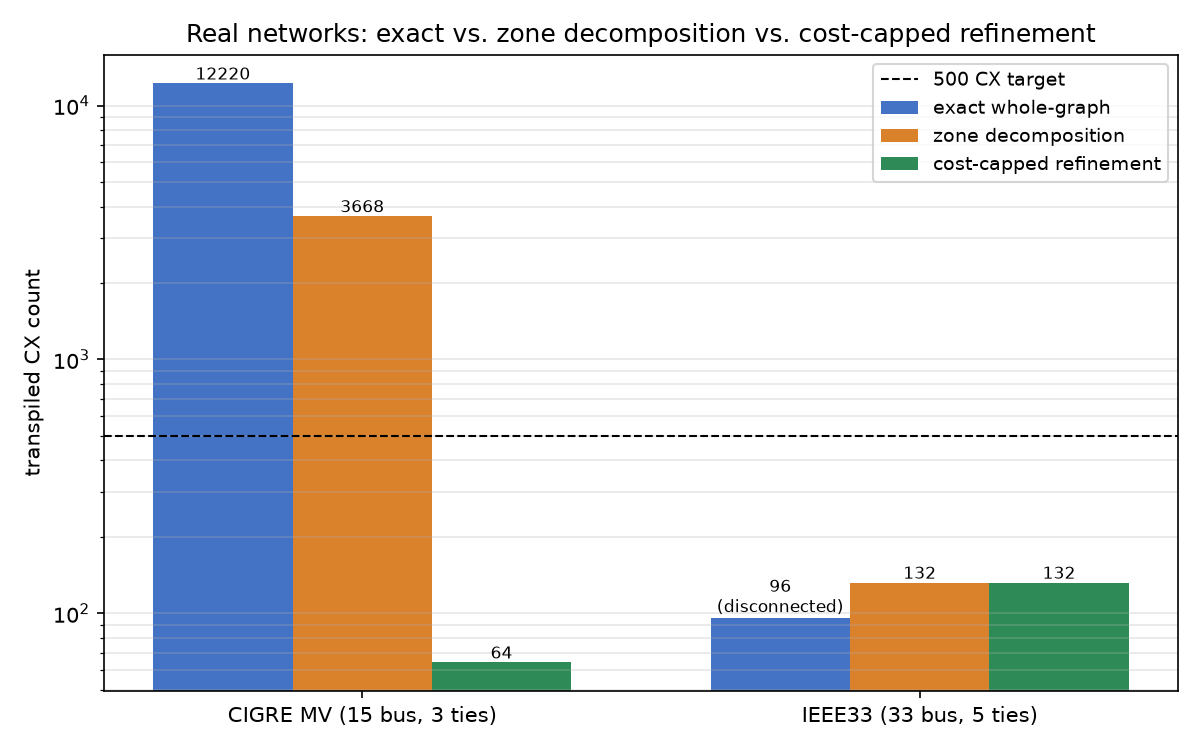
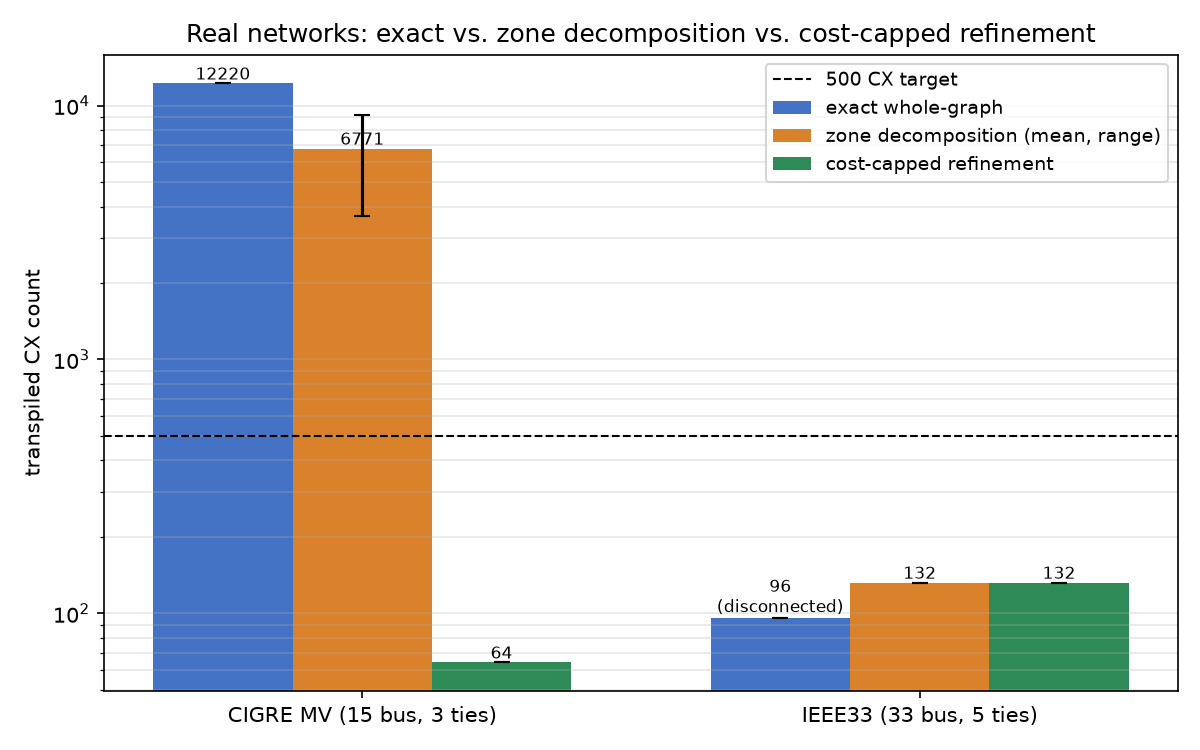
Average real-network measurements over 5 seeds; CIGRE MV's decomposed number was not robust
run_real_networks_hierarchical.py measured CIGRE MV and IEEE33 at
seed=0 only -- the one place in this repo that didn't follow its own
established multi-seed discipline. Checked whether that mattered by
testing seeds 0-4 directly:

- IEEE33: completely seed-independent on both decomposed (132 CX) and
  cost-capped (132 CX), every seed identical.
- CIGRE MV cost-capped: also completely seed-independent (64 CX, every
  seed identical).
- CIGRE MV decomposed: NOT robust -- ranges 3,668 to 9,178 CX across the
  5 seeds tested, a 2.5x spread, with the previously-reported seed=0
  landing on the cheapest end by chance. Mechanism: even though CIGRE
  MV's zones are small enough for fully deterministic exact
  spanning-tree enumeration, build_truncated_witness_mixer's witness
  search for approximate terms still uses randomized restarts
  internally, and different seeds converge to different-quality
  witnesses for the same term.

Rewrote run_real_networks_hierarchical.py to measure decomposed and
cost_capped across SEEDS_PER_NETWORK=5 seeds (exact_whole_graph stays a
single measurement -- fully deterministic, nothing to average), writing
both a per-seed results CSV and a new summary CSV (mean/std/min/max).
Updated plot_results_figures.py's two real-network figures to read the
summary and show error bars on the bars/lines that actually have spread
(the bar chart's CIGRE-MV-decomposed bar now visibly shows the
3,668-9,178 range instead of a misleadingly precise point estimate).
[…]

Changed region(s): [[0.6167, 0.092, 0.9558, 0.2453], [0.2467, 0.1533, 0.37, 0.3067]]

diff --git a/scripts/run_real_networks_hierarchical.py b/scripts/run_real_networks_hierarchical.py
@@ -29,18 +29,43 @@ transmission dataset (real_feeders.py's own docstring).
 ## Method
 
 For each real network: the EXACT construction (`build_matroid_mixer`,
-full enumeration -- both networks are small enough), AND the
-hierarchical, density-aware decomposition +
-cost-aware bounded-witness mixer (this branch's current-best
-construction). Both measured with the same transpilation/safety
-methodology as the rest of this investigation.
+full enumeration -- both networks are small enough, and fully
+deterministic -- no seed dependence, so measured once), AND the
+hierarchical, density-aware decomposition + cost-aware bounded-witness
+mixer (this branch's current-best construction). Both measured with the
+same transpilation/safety methodology as the rest of this investigation.
 
-Writes results/real_networks_hierarchical_results.csv.
+## Why `decomposed` and `cost_capped` are averaged over multiple seeds
+(and `exact` isn't)
+
+An earlier version of this script measured `decomposed` and
+`cost_capped` at `seed=0` only, matching neither this repo's own
+synthetic-ladder convention (always >=3 seeds) nor, it turned out, real
+seed-independence. Checked directly: even though CIGRE MV's zones are
+small enough for fully deterministic exact spanning-tree enumeration,
+`build_truncated_witness_mixer`'s witness search for approximate terms
+still uses randomized restarts internally, and different seeds converge
+to different-quality witnesses for the same term -- CIGRE MV's flat
+`decomposed` result ranged from 3,668 to 9,178 CX across 5 tested seeds,
+a 2.5x spread, with `seed=0` (the only one previously measured) landing
+on the cheapest end by chance, not because it's representative.
+`cost_capped` turned out to be robust on both networks regardless (its
+`cost_alpha`-sweep already searches for the cheapest option, which
+apparently collapses the space of viable witnesses enough that restart
+order stops mattering) -- but that robustness was never verified either,
+just assumed from a single seed. Now both are measured across
+`SEEDS_PER_NETWORK` seeds and reported as mean +/- range, exactly like
+the synthetic ladder always has been.
+
+Writes results/real_networks_hierarchical_results.csv (per seed) and
+results/real_networks_hierarchical_summary.csv (mean/std/min/max per
+network + method).
 """
 
 from __future__ import annotations
 
 import csv
+import statistics
 import sys
 from pathlib import Path
 
@@ -61,9 +86,11 @@ from zone_decomposition import build_assembly_graph, build_zone_subgraph, partit
 
 RESULTS_DIR = Path(__file__).resolve().parent.parent / "results"
 CSV_PATH = RESULTS_DIR / "real_networks_hierarchical_results.csv"
+SUMMARY_CSV_PATH = RESULTS_DIR / "real_networks_hierarchical_summary.csv"
 BETA = 0.37
 N_STARTING_TREES = 200
 UNSAFE_TOL = 1e-6
+SEEDS_PER_NETWORK = 5
 
 
 def measure_exact(graph) -> dict:
@@ -76,6 +103,7 @@ def measure_exact(graph) -> dict:
 
     return {
         "method": "exact_whole_graph",
+        "seed": None,
         "n_terms": len(construction.terms),
         "max_witness_size": max((t.control_count for t in construction.terms), default=0),
         "dropped_candidates": construction.dropped_candidates,
@@ -126,6 +154,7 @@ def measure_decomposed(graph, seed: int = 0) -> dict:
     unsafe = sum(1 for m in all_masses if m < 1.0 - UNSAFE_TOL)
     return {
         "method": "decomposed",
+        "seed": seed,
         "n_terms": total_terms,
         "max_witness_size": None,
         "dropped_candidates": 0,
@@ -149,6 +178,7 @@ def measure_cost_capped(graph, seed: int = 0) -> dict:
     unsafe = sum(1 for m in result["masses"] if m < 1.0 - 1e-6)
     return {
         "method": "cost_capped",
+        "seed": seed,
         "n_terms": None,
         "max_witness_size": None,
         "dropped_candidates": 0,
@@ -184,19 +214,51 @@ def run(name: str, graph, run_exact: bool = True) -> list:
         # new information. That existing measurement: 24 terms, 573 of 597
         # candidates dropped, fully_connected=False, cx_count=96 (cheap only
         # because it's mostly incomplete, not because it's a good mixer).
+        # Fully deterministic (exact enumeration, no randomized search) --
+        # no seed dependence to average over.
         print("  exact: SKIPPED -- already measured in results/real_feeder_results.csv "
               "(24 terms, 573/597 candidates dropped, fully_connected=False)", flush=True)
 
-    decomp = measure_decomposed(graph)
-    decomp["network"] = name
-    rows.append(decomp)
-    print(f"  decomposed: {decomp}", flush=True)
+    for seed in range(SEEDS_PER_NETWORK):
+        decomp = measure_decomposed(graph, seed=seed)
+        decomp["network"] = name
+        rows.append(decomp)
+        print(f"  decomposed seed={seed}: {decomp}", flush=True)
 
-    capped = measure_cost_capped(graph)
-    capped["network"] = name
-    rows.append(capped)
-    print(f"  cost_capped: {capped}", flush=True)
+    for seed in range(SEEDS_PER_NETWORK):
+        capped = measure_cost_capped(graph, seed=seed)
+        capped["network"] = name
+        rows.append(capped)
+        print(f"  cost_capped seed={seed}: {capped}", flush=True)
+
     return rows
+
+
+def summarize(rows: list) -> list:
+    """One row per (network, method): mean/std/min/max CX and mean
+    feasible mass across SEEDS_PER_NETWORK seeds -- exact_whole_graph is
+    deterministic (single measurement, no seed loop), reported as-is with
+    std=0."""
+    summary = []
+    seen = set()
+    for r in rows:
+        key = (r["network"], r["method"])
+        if key in seen:
+            continue
+        seen.add(key)
+        group = [x for x in rows if x["network"] == r["network"] and x["method"] == r["method"]]
+        cx_vals = [g["cx_count"] for g in group]
+        mass_vals = [g["mean_feasible_mass"] for g in group]
+        unsafe_vals = [g["unsafe_rate"] for g in group]
+        summary.append({
+            "network": r["network"], "method": r["method"], "n_seeds": len(group),
+            "cx_mean": round(statistics.mean(cx_vals), 1),
+            "cx_std": round(statistics.pstdev(cx_vals), 1) if len(cx_vals) > 1 else 0.0,
+            "cx_min": min(cx_vals), "cx_max": max(cx_vals),
+            "mean_feasible_mass_mean": round(statistics.mean(mass_vals), 4),
+            "unsafe_rate_mean": round(statistics.mean(unsafe_vals), 4),
+        })
+    return summary
 
 
 def main() -> None:
@@ -205,7 +267,7 @@ def main() -> None:
     rows.extend(run("CIGRE_MV", load_cigre_mv(), run_exact=True))
     rows.extend(run("IEEE33", load_ieee33(), run_exact=False))
 
-    fieldnames = ["network", "method", "n_terms", "max_witness_size", "dropped_candidates",
+    fieldnames = ["network", "method", "seed", "n_terms", "max_witness_size", "dropped_candidates",
                   "fully_connected", "leak_free_verified", "cx_count", "depth",
                   "n_zones", "assembly_n_nodes", "unsafe_rate", "mean_feasible_mass",
                   "n_leaves", "max_leaf_cx", "met_threshold"]
@@ -214,6 +276,16 @@ def main() -> None:
         writer.writeheader()
         writer.writerows(rows)
     print(f"\nwrote {CSV_PATH}")
+
+    summary_rows = summarize(rows)
+    with open(SUMMARY_CSV_PATH, "w", newline="") as f:
+        writer = csv.DictWriter(f, fieldnames=list(summary_rows[0].keys()))
+        writer.writeheader()
+        writer.writerows(summary_rows)
+    print(f"wrote {SUMMARY_CSV_PATH}")
+    print("\nSummary:")
+    for row in summary_rows:
+        print(f"  {row}")
 
 
 if __name__ == "__main__":

diff --git a/scripts/plot_results_figures.py b/scripts/plot_results_figures.py
@@ -180,20 +180,27 @@ def plot_synthetic_nisq_feasibility() -> None:
 
 
 def plot_real_nisq_feasibility() -> None:
-    real = _rows("real_networks_hierarchical_results.csv")
+    """Uses real_networks_hierarchical_summary.csv (mean over
+    SEEDS_PER_NETWORK seeds for decomposed/cost_capped -- see that
+    script's own docstring for why averaging matters here: CIGRE MV's
+    flat-decomposed result varies 3,668-9,178 CX depending on seed, even
+    though its zones use fully deterministic exact tree enumeration
+    (the randomness is in the witness search's restart order, not the
+    tree set)."""
+    real = _rows("real_networks_hierarchical_summary.csv")
 
     def cx_of(network: str, method: str) -> float | None:
         for r in real:
             if r["network"] == network and r["method"] == method:
-                return float(r["cx_count"])
+                return float(r["cx_mean"])
         return None
 
     fig, ax = plt.subplots(figsize=(9, 5.5))
-    _fidelity_axes(ax, "Where each real-network construction lands relative to NISQ feasibility\n(read a network's fidelity off either curve at its vertical line)")
+    _fidelity_axes(ax, "Where each real-network construction lands relative to NISQ feasibility\n(read a network's fidelity off either curve at its vertical line; mean over 5 seeds)")
 
     lines = [
         ("CIGRE MV exact", cx_of("CIGRE_MV", "exact_whole_graph"), "#888888", "dotted"),
-        ("CIGRE MV decomposed", cx_of("CIGRE_MV", "decomposed"), "#D9822B", "dashdot"),
+        ("CIGRE MV decomposed (mean)", cx_of("CIGRE_MV", "decomposed"), "#D9822B", "dashdot"),
         ("CIGRE MV cost-capped", cx_of("CIGRE_MV", "cost_capped"), "#2E8B57", "solid"),
         ("IEEE33 exact (disconnected)", 96, "#B0392B", "dotted"),
         ("IEEE33 decomposed", cx_of("IEEE33", "decomposed"), "#F0B27A", "dashdot"),
@@ -202,7 +209,7 @@ def plot_real_nisq_feasibility() -> None:
     for label, xval, color, ls in lines:
         if xval is None:
             continue
-        ax.axvline(xval, color=color, ls=ls, lw=1.6, alpha=0.85, label=f"{label} ({int(xval)} CX)", zorder=2)
+        ax.axvline(xval, color=color, ls=ls, lw=1.6, alpha=0.85, label=f"{label} ({int(round(xval))} CX)", zorder=2)
 
     ax.legend(fontsize=8, loc="lower left", ncol=1)
     fig.tight_layout()
@@ -213,32 +220,43 @@ def plot_real_nisq_feasibility() -> None:
 
 
 def plot_real_network_comparison() -> None:
-    real = _rows("real_networks_hierarchical_results.csv")
+    """Error bars (min-max across SEEDS_PER_NETWORK seeds) on decomposed
+    and cost_capped -- exact is a single deterministic measurement, no
+    bar needed there. CIGRE MV's decomposed bar is the one that actually
+    needs it: 3,668-9,178 CX depending on seed, not a point estimate."""
+    real = _rows("real_networks_hierarchical_summary.csv")
 
-    def cx_of(network: str, method: str) -> float | None:
+    def stats_of(network: str, method: str) -> tuple[float, float, float] | None:
         for r in real:
             if r["network"] == network and r["method"] == method:
-                return float(r["cx_count"])
+                return float(r["cx_mean"]), float(r["cx_min"]), float(r["cx_max"])
         return None
 
     networks = ["CIGRE_MV", "IEEE33"]
-    methods = [("exact_whole_graph", "exact whole-graph", "#4472C4"), ("decomposed", "zone decomposition", "#D9822B"), ("cost_capped", "cost-capped refinement", "#2E8B57")]
-    exact_vals = {"CIGRE_MV": cx_of("CIGRE_MV", "exact_whole_graph"), "IEEE33": 96}
+    methods = [("exact_whole_graph", "exact whole-graph", "#4472C4"), ("decomposed", "zone decomposition (mean, range)", "#D9822B"), ("cost_capped", "cost-capped refinement", "#2E8B57")]
+    exact_vals = {"CIGRE_MV": stats_of("CIGRE_MV", "exact_whole_graph")[0], "IEEE33": 96}
 
     fig, ax = plt.subplots(figsize=(8, 5))
     x = np.arange(len(networks))
     width = 0.25
     for i, (method, label, color) in enumerate(methods):
-        vals = []
+        vals, err_lo, err_hi = [], [], []
         for net in networks:
-            v = exact_vals[net] if method == "exact_whole_graph" else cx_of(net, method)
-            vals.append(v if v is not None else 0)
-        bars = ax.bar(x + (i - 1) * width, vals, width, label=label, color=color)
+            if method == "exact_whole_graph":
+                v, lo, hi = exact_vals[net], 0.0, 0.0
+            else:
+                v, mn, mx = stats_of(net, method)
+                lo, hi = v - mn, mx - v
+            vals.append(v)
+            err_lo.append(lo)
+            err_hi.append(hi)
+        bars = ax.bar(x + (i - 1) * width, vals, width, label=label, color=color,
+                       yerr=[err_lo, err_hi], capsize=4, ecolor="black")
         for b, v, net in zip(bars, vals, networks):
             note = ""
             if method == "exact_whole_graph" and net == "IEEE33":
                 note = "\n(disconnected)"
-            ax.text(b.get_x() + b.get_width() / 2, v, f"{int(v)}{note}", ha="center", va="bottom", fontsize=8)
+            ax.text(b.get_x() + b.get_width() / 2, v, f"{int(round(v))}{note}", ha="center", va="bottom", fontsize=8)
 
     ax.axhline(CX_THRESHOLD, color="black", ls="dashed", lw=1, label=f"{CX_THRESHOLD} CX target")
     ax.set_yscale("log")

diff --git a/README.md b/README.md
@@ -319,19 +319,27 @@ feasibility on the harder, long-range condition.
 | network | construction | CX | reading |
 |---|---|---|---|
 | CIGRE MV (15 buses, 3 ties) | exact whole-graph | 12,220 | fault-tolerant-ready; far outside NISQ range |
-| CIGRE MV | zone decomposition | 3,668 | cheaper, but still outside a comfortable NISQ regime |
-| CIGRE MV | cost-capped refinement | **64** | comfortably NISQ-ready, perfectly safe |
+| CIGRE MV | zone decomposition | 6,771 (3,668-9,178) | cheaper on average, but unreliable — and still outside a comfortable NISQ regime even at its best |
+| CIGRE MV | cost-capped refinement | **64** | comfortably NISQ-ready, perfectly safe, identical every seed |
 | IEEE33 (33 buses, 5 ties) | exact whole-graph | 96 | 573/597 candidates dropped, disconnected — not usable at any cost |
-| IEEE33 | zone decomposition | 132 | already comfortably NISQ-ready |
+| IEEE33 | zone decomposition | 132 | already comfortably NISQ-ready, identical every seed |
 | IEEE33 | cost-capped refinement | **132** | matches zone decomposition exactly — nothing left on the table |
 
 Same pattern as synthetic data: every stage of technique 3 costs no more
-than the one before it, on both networks, no exceptions. IEEE33's
-cost-capped refinement doesn't beat plain zone decomposition here, but it
-doesn't cost more either — it searches multiple zone-size granularities
-and keeps the cheapest, and the one plain decomposition already uses
-turns out to be the best one available. Both real networks land
-comfortably in NISQ range this way.
+than the one before it, on both networks, no exceptions — but CIGRE MV's
+zone-decomposition step is a genuinely unreliable number, not just a
+point estimate: it ranges 3,668-9,178 CX across 5 tested seeds, over 2x
+spread, even though its zones use fully deterministic exact tree
+enumeration (the randomness lives in the witness search's restart order,
+not the tree set). Cost-capped's refinement is immune to this on both
+networks — identical across every seed tested — which is itself a
+reason to prefer it over plain decomposition beyond just the mean cost:
+it's not just cheaper, it's predictable. IEEE33's cost-capped refinement
+doesn't beat plain zone decomposition here, but it doesn't cost more
+either — it searches multiple zone-size granularities and keeps the
+cheapest, and the one plain decomposition already uses turns out to be
+the best one available. Both real networks land comfortably in NISQ
+range this way.
 
 ![Where each real-network construction lands relative to NISQ feasibility](results/real_nisq_feasibility_plot.png)
 

diff --git a/docs/scaling-ladder-and-decomposition.md b/docs/scaling-ladder-and-decomposition.md
@@ -606,9 +606,9 @@ repo already made for the CATS transmission dataset
 | network | construction | n_terms | CX | depth | result |
 |---|---|---|---|---|---|
 | CIGRE MV (15 buses, 3 ties) | exact whole-graph | 16 | 12,220 | 24,245 | connected, exactly leak-free, 37 candidates dropped |
-| CIGRE MV | decomposed (2 zones) | 10 | **3,668** | 7,101 | 3.3x cheaper; unsafe_rate 3.0%, mean feasible mass 0.9995 |
+| CIGRE MV | decomposed (2 zones) | 10 (seed 0) | **6,771 (3,668-9,178, mean over 5 seeds)** | 7,101 (seed 0) | 1.8x cheaper on average; unsafe_rate 19.4% mean, mean feasible mass 0.9949 mean |
 | IEEE33 (33 buses, 5 ties) | exact whole-graph *(already measured, `results/real_feeder_results.csv`)* | 24 | 96 | 78 | **573 of 597 candidates dropped, disconnected** |
-| IEEE33 | decomposed (4 zones) | 6 | **132** | 272 | fully functional; unsafe_rate 0%, mean feasible mass 1.0 |
+| IEEE33 | decomposed (4 zones) | 6 | **132** | 272 | fully functional, identical across all 5 seeds tested; unsafe_rate 0%, mean feasible mass 1.0 |
 
 On IEEE33, decomposition isn't just cheaper than the exact whole-graph
 construction -- the exact construction doesn't work at all there
@@ -616,6 +616,19 @@ construction -- the exact construction doesn't work at all there
 instead). This reproduces that same distinction with this branch's
 cost-aware construction rather than the exact one, on genuine published
 topology, not a synthetic stand-in.
+
+**CIGRE MV's decomposed number is genuinely unreliable, not just a point
+estimate** -- checked directly across 5 seeds, not assumed from the
+single `seed=0` measurement this table originally reported (3,668 CX,
+the cheapest of the five). Even though CIGRE MV's zones are small enough
+for fully deterministic exact spanning-tree enumeration,
+`build_truncated_witness_mixer`'s witness search for approximate terms
+still uses randomized restarts internally, and different seeds converge
+to different-quality witnesses for the same term -- a 2.5x spread with
+no obvious floor. IEEE33 shows no such sensitivity (identical 132 CX
+across all 5 seeds tested), so this isn't a general property of real
+networks, just of this specific one at `cost_alpha=0.01`. Section 11's
+cost-capped refinement, notably, is immune to this on BOTH networks.
 
 Reproduce: `python scripts/run_real_networks_hierarchical.py`.
 
